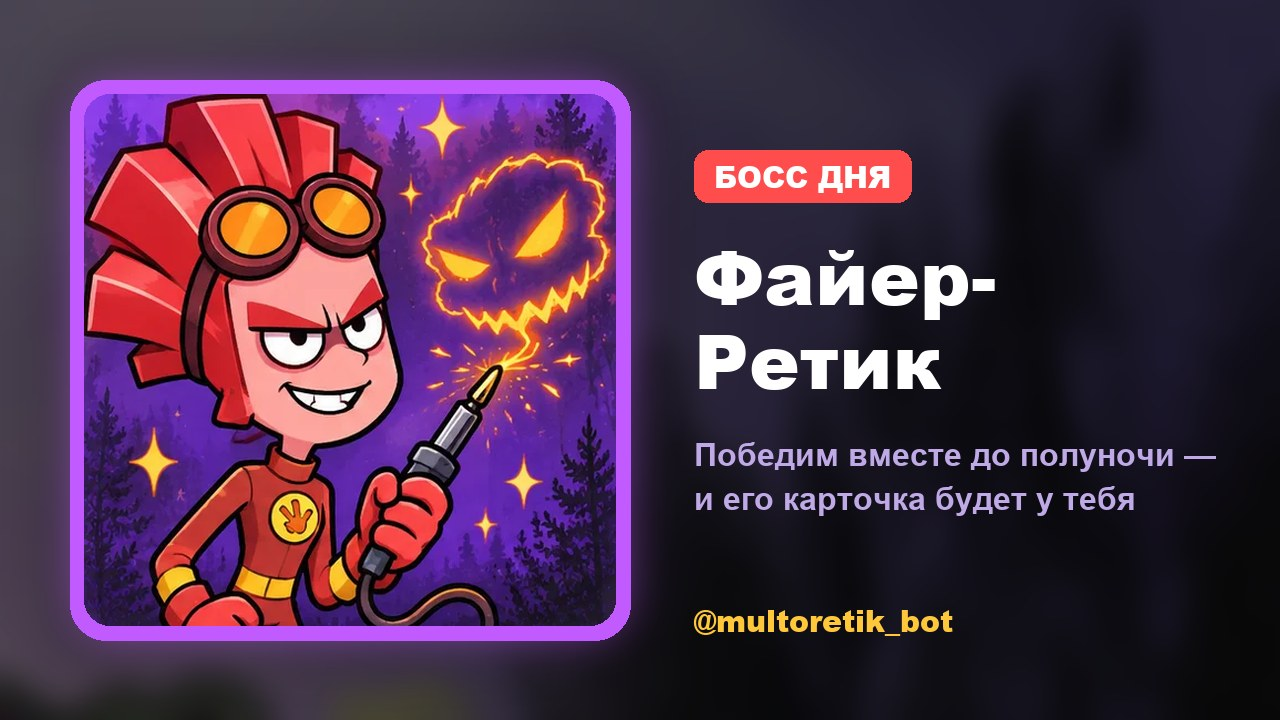
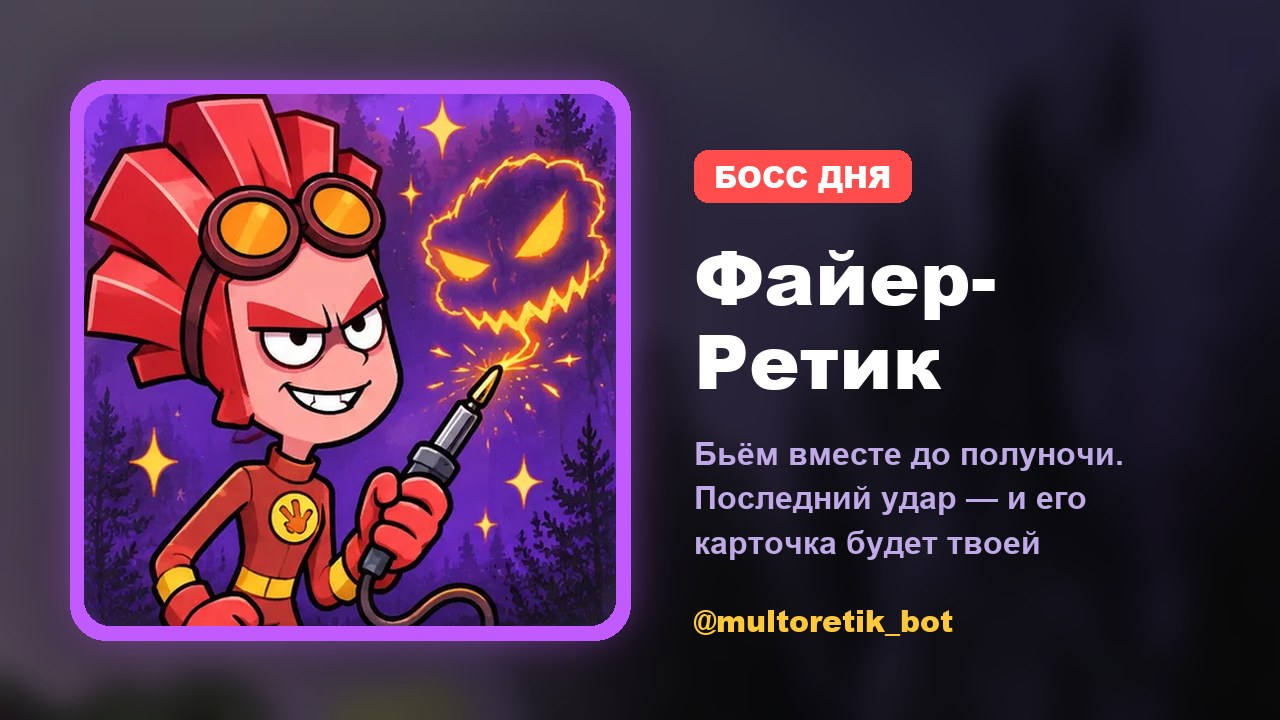
Карточка босса — только за последний удар, участникам — редкая карточка и монеты

Changed region(s): [[0.5312, 0.6111, 0.9375, 0.7944]]

diff --git a/index.html b/index.html
@@ -641,13 +641,13 @@ async function loadBoss(quiet) {
 function renderBoss() {
   const b = B.st;
   if (!b || !b.card) { $("#boss").innerHTML = `<div class="muted">Босс скоро появится</div>`; return; }
-  const claim = b.canClaim ? `<button class="btn gold" id="bclaim">${icon("i-gift")}Забрать карточку босса</button>`
-    : b.defeated && b.claimed ? `<p class="muted" style="margin-top:12px">Карточка у тебя. Завтра — новый босс</p>`
+  const claim = b.canClaim ? `<button class="btn gold" id="bclaim">${icon("i-gift")}${b.killer ? "Забрать карточку босса" : "Забрать награду"}</button>`
+    : b.defeated && b.claimed ? `<p class="muted" style="margin-top:12px">Награда у тебя. Завтра — новый босс</p>`
     : b.defeated ? `<p class="muted" style="margin-top:12px">Победили без тебя — завтра новый босс</p>` : "";
   $("#boss").innerHTML = `<div class="bh"><span class="badge2">${icon("i-sword", 18)}Босс дня</span><span class="muted" id="bleft">${b.defeated ? "повержен" : "сбежит через " + mskLeft()}</span></div>
     <button class="bossart ${b.defeated ? "dead" : ""}" id="bossart" aria-label="Ударить босса">${cardHtml(b.card, 0, true)}${b.defeated ? `<span class="deadtag">Повержен!</span>` : ""}</button>
     <div class="hp"><i id="hpbar"></i><span id="hptext"></span></div>
-    <div class="bmeta"><span>твои удары: <b id="bmy">0</b></span><span>${b.need}+ ударов — карточка твоя</span></div>
+    <div class="bmeta"><span>твои удары: <b id="bmy">0</b></span><span>последний удар — карточка босса</span></div>
     ${claim}<div class="btop" id="btop"></div>`;
   updBoss();
   const art = $("#bossart");
@@ -658,7 +658,7 @@ function renderBoss() {
     const r = await call("boss_claim");
     if (r.error) { toast(r.error); $("#bclaim").disabled = false; return; }
     B.st.canClaim = false; B.st.claimed = true; renderBoss();
-    drop("Босс повержен!", `+${r.coins} монет${r.killer ? " · за последний удар — ещё карточка" : ""}`, r.cards);
+    drop(r.killer ? "Последний удар — твой!" : "Босс повержен!", `+${r.coins} монет · ${r.killer ? "карточка босса твоя" : "награда за командную победу"}`, r.cards);
   };
 }
 function updBoss() {
